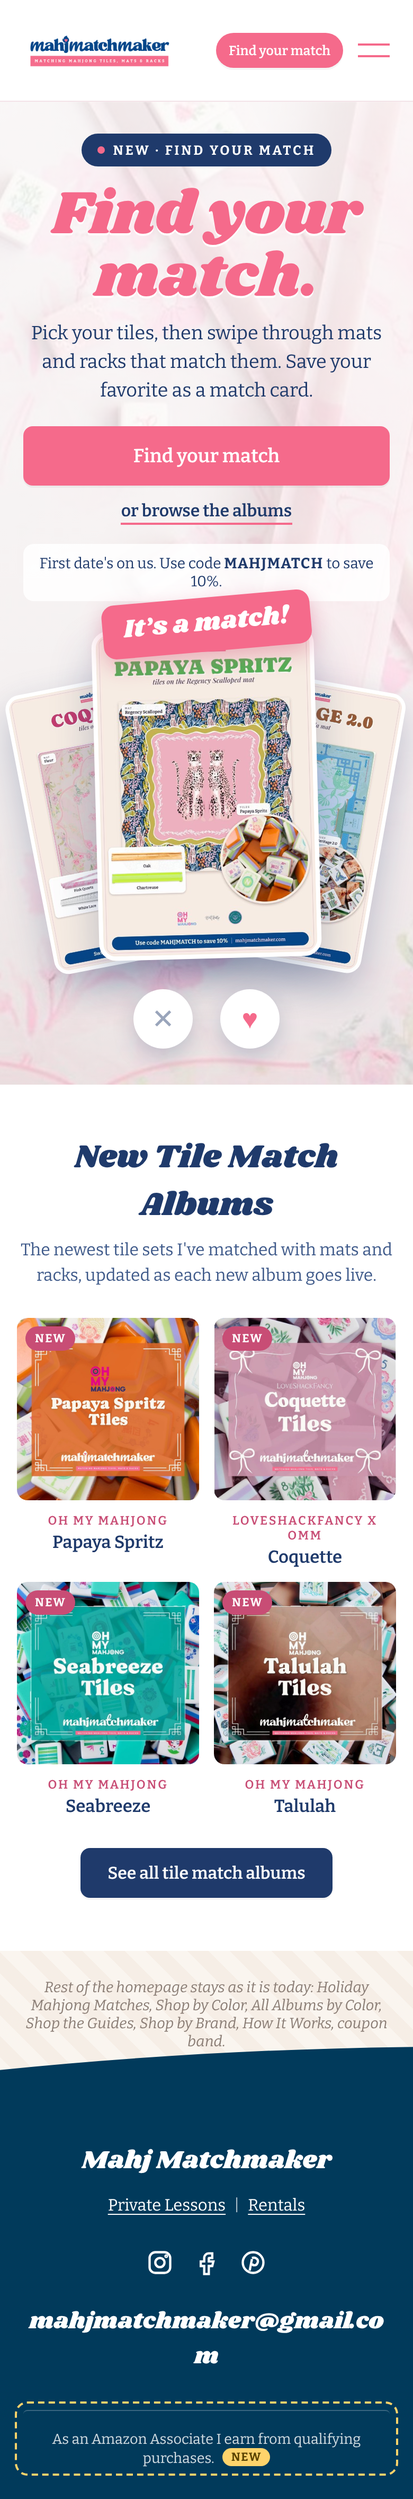
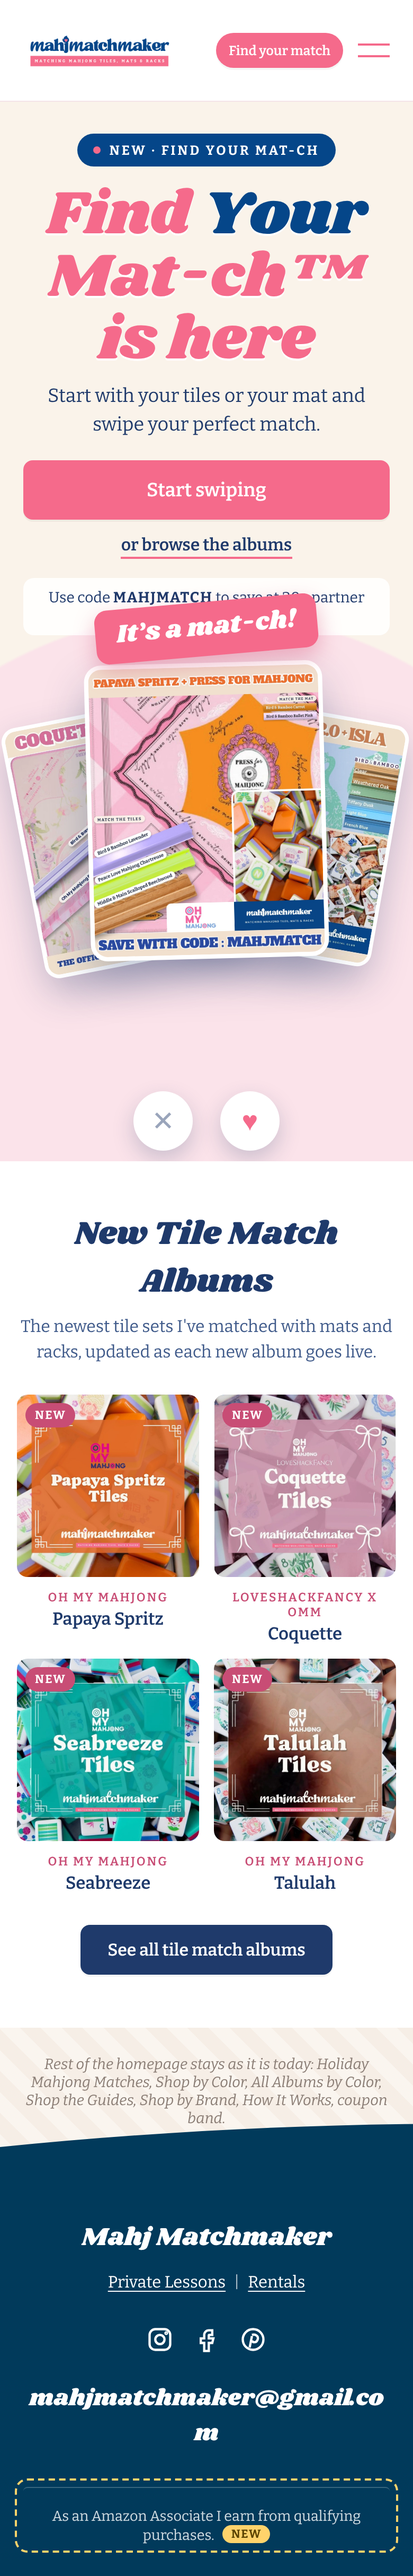
WIP: launch hero mock updates (nav-plan) from running agent
Claude-Session: https://claude.ai/code/session_014aKoC1ZMdZPjGkZ9kHhnLk

diff --git a/site/livepatch/nav-plan/mock/home-launch.html b/site/livepatch/nav-plan/mock/home-launch.html
@@ -29,6 +29,13 @@ a{color:inherit;text-decoration:none}
 .hd .burger{display:none}
 /* hero */
 .hero{position:relative;overflow:hidden;background:url(../../../../assets/hero/loveshackfancy-coquette-fleur-mat-hero.jpg) center/cover}
+.hero.launch{background:radial-gradient(circle at 74% 56%,#fbe3ea 0 36%,transparent 36.2%),radial-gradient(circle at -4% 104%,#fbe3ea 0 20%,transparent 20.2%),#faf3ea}
+.hero.launch::before{display:none}
+.hero.launch h1 em{font-style:normal;color:#054689}
+.hero.launch .eyebrow{background:#054689}
+.hero.launch .fan{height:600px}.hero.launch .fan .c{width:330px}
+.hero.launch .itsamatch{top:-22px}
+.hero.launch .swipes{bottom:-30px}
 .hero::before{content:"";position:absolute;inset:0;background:linear-gradient(90deg,rgba(255,255,255,.80) 0%,rgba(255,255,255,.62) 46%,rgba(255,255,255,.18) 100%)}
 .hero .in{position:relative;display:grid;grid-template-columns:1.05fr .95fr;align-items:center;gap:30px;max-width:1180px;margin:0 auto;padding:64px 56px 70px;min-height:640px}
 .eyebrow{display:inline-flex;align-items:center;gap:8px;background:var(--navy);color:#fff;font-size:12.5px;font-weight:700;letter-spacing:.16em;text-transform:uppercase;border-radius:99px;padding:8px 15px}
@@ -119,6 +126,8 @@ a{color:inherit;text-decoration:none}
 .note{position:absolute;z-index:50;background:#fff8e1;border:1.5px solid #ffd36b;color:#5a4300;font-size:12.5px;line-height:1.35;border-radius:8px;padding:6px 9px;max-width:230px;font-family:'Bitter',serif;box-shadow:0 4px 12px rgba(0,0,0,.08)}
 
 @media (max-width:760px){
+ .hero.launch{background:radial-gradient(circle at 50% 88%,#fbe3ea 0 44%,transparent 44.3%),#faf3ea}
+ .hero.launch .fan{height:440px}.hero.launch .fan .c{width:225px}
  .hd{height:96px;padding:0 22px}
  .hd .logo img{height:40px}
  .nav{display:none}
@@ -157,13 +166,13 @@ a{color:inherit;text-decoration:none}
 </style></head><body><header class="hd"><a class="logo" href="/"><img src="img/logo.png" alt="Mahj Matchmaker"></a>
 <nav class="nav"><div class="it">Mahjong Matches <span class="car">&#9662;</span></div><div class="it">Discount Codes</div><div class="it">Blog</div><div class="it">Shop</div><div class="it">Community <span class="car">&#9662;</span></div>
 <a class="btn cta" href="/find-your-match"><span class="h">&#9829;</span> Find your match</a></nav>
-<div class="rt"><a class="btn mpill" href="/find-your-match">Find your match</a><div class="burger mob"><i></i><i></i></div></div></header><section class="hero"><div class="in"><div>
-<span class="eyebrow"><span class="dot"></span>New &middot; Find Your Match</span>
-<h1>Find your match.</h1>
-<p class="lede">Pick your tiles, then swipe through mats and racks that match them. Save your favorite as a match card.</p>
-<div class="ctas"><a class="btn" href="/find-your-match">Find your match</a><a class="tl" href="/mahjong-tile-matches">or browse the albums</a></div>
-<div class="coupon">First date's on us. Use code <b>MAHJMATCH</b> to save 10%.</div>
-</div><div class="fan"><div class="c c1"><img src="img/card-coquette.jpg" alt=""></div><div class="c c2"><img src="img/card-heritage2.jpg" alt=""></div><div class="c c3"><img src="img/card-papaya.jpg" alt="Papaya Spritz tiles on the Regency Scalloped mat"></div><div class="itsamatch">It&rsquo;s a match!</div><div class="swipes"><span class="no">&#10005;</span><span class="yes">&#9829;</span></div></div></div></section><section class="albums"><h2>New Tile Match Albums</h2><p class="sub">The newest tile sets I've matched with mats and racks, updated as each new album goes live.</p><div class="strip"><a class="a" href="/papaya-spritz-mahjong-tile-matches"><span class="new">NEW</span><img src="../../../../assets/covers/albums/w800/00-papaya-spritz-mahjong-tiles-cover.jpg" alt=""><div class="br">Oh My Mahjong</div><div class="nm">Papaya Spritz</div></a><a class="a" href="/coquette-mahjong-tile-matches"><span class="new">NEW</span><img src="../../../../assets/covers/albums/w800/00-coquette-mahjong-tiles-cover.jpg" alt=""><div class="br">LoveShackFancy x OMM</div><div class="nm">Coquette</div></a><a class="a" href="/seabreeze-mahjong-tile-matches"><span class="new">NEW</span><img src="../../../../assets/covers/albums/w800/00-seabreeze-mahjong-tiles-cover.jpg" alt=""><div class="br">Oh My Mahjong</div><div class="nm">Seabreeze</div></a><a class="a" href="/talulah-mahjong-tile-matches"><span class="new">NEW</span><img src="../../../../assets/covers/albums/w800/00-talulah-mahjong-tiles-cover.jpg" alt=""><div class="br">Oh My Mahjong</div><div class="nm">Talulah</div></a><a class="a" href="/osler-mahjong-tile-matches"><span class="new">NEW</span><img src="../../../../assets/covers/albums/w800/00-osler-mahjong-tiles-cover.jpg" alt=""><div class="br">Oh My Mahjong</div><div class="nm">Osler</div></a><a class="a" href="/smith-mahjong-tile-matches"><span class="new">NEW</span><img src="../../../../assets/covers/albums/w800/00-smith-mahjong-tiles-cover.jpg" alt=""><div class="br">Oh My Mahjong</div><div class="nm">Smith</div></a></div><div class="more"><a class="btn navy" href="/mahjong-tile-matches">See all tile match albums</a></div></section><div class="rest">Rest of the homepage stays as it is today: Holiday Mahjong Matches, Shop by Color, All Albums by Color, Shop the Guides, Shop by Brand, How It Works, coupon band.</div><footer class="ft"><div class="row">
+<div class="rt"><a class="btn mpill" href="/find-your-match">Find your match</a><div class="burger mob"><i></i><i></i></div></div></header><section class="hero launch"><div class="in"><div>
+<span class="eyebrow"><span class="dot"></span>New &middot; Find Your Mat-ch</span>
+<h1>Find <em>Your</em> Mat-ch&trade; is here</h1>
+<p class="lede">Start with your tiles or your mat and swipe your perfect match.</p>
+<div class="ctas"><a class="btn" href="/find-your-match">Start swiping</a><a class="tl" href="/mahjong-tile-matches">or browse the albums</a></div>
+<div class="coupon">Use code <b>MAHJMATCH</b> to save at 30+ partner brands</div>
+</div><div class="fan"><div class="c c1"><img src="img/card-coquette.jpg" alt=""></div><div class="c c2"><img src="img/card-heritage2.jpg" alt=""></div><div class="c c3"><img src="img/card-papaya.jpg" alt="Papaya Spritz tiles on the Press for Mahjong mat"></div><div class="itsamatch">It&rsquo;s a mat-ch!</div><div class="swipes"><span class="no">&#10005;</span><span class="yes">&#9829;</span></div></div></div></section><section class="albums"><h2>New Tile Match Albums</h2><p class="sub">The newest tile sets I've matched with mats and racks, updated as each new album goes live.</p><div class="strip"><a class="a" href="/papaya-spritz-mahjong-tile-matches"><span class="new">NEW</span><img src="../../../../assets/covers/albums/w800/00-papaya-spritz-mahjong-tiles-cover.jpg" alt=""><div class="br">Oh My Mahjong</div><div class="nm">Papaya Spritz</div></a><a class="a" href="/coquette-mahjong-tile-matches"><span class="new">NEW</span><img src="../../../../assets/covers/albums/w800/00-coquette-mahjong-tiles-cover.jpg" alt=""><div class="br">LoveShackFancy x OMM</div><div class="nm">Coquette</div></a><a class="a" href="/seabreeze-mahjong-tile-matches"><span class="new">NEW</span><img src="../../../../assets/covers/albums/w800/00-seabreeze-mahjong-tiles-cover.jpg" alt=""><div class="br">Oh My Mahjong</div><div class="nm">Seabreeze</div></a><a class="a" href="/talulah-mahjong-tile-matches"><span class="new">NEW</span><img src="../../../../assets/covers/albums/w800/00-talulah-mahjong-tiles-cover.jpg" alt=""><div class="br">Oh My Mahjong</div><div class="nm">Talulah</div></a><a class="a" href="/osler-mahjong-tile-matches"><span class="new">NEW</span><img src="../../../../assets/covers/albums/w800/00-osler-mahjong-tiles-cover.jpg" alt=""><div class="br">Oh My Mahjong</div><div class="nm">Osler</div></a><a class="a" href="/smith-mahjong-tile-matches"><span class="new">NEW</span><img src="../../../../assets/covers/albums/w800/00-smith-mahjong-tiles-cover.jpg" alt=""><div class="br">Oh My Mahjong</div><div class="nm">Smith</div></a></div><div class="more"><a class="btn navy" href="/mahjong-tile-matches">See all tile match albums</a></div></section><div class="rest">Rest of the homepage stays as it is today: Holiday Mahjong Matches, Shop by Color, All Albums by Color, Shop the Guides, Shop by Brand, How It Works, coupon band.</div><footer class="ft"><div class="row">
 <div><div class="nm">Mahj Matchmaker</div><div class="links"><a href="/private-mahjong-lessons">Private Lessons</a><span class="pipe">|</span><a href="/rentals">Rentals</a></div></div>
 <div><div class="soc"><svg viewBox="0 0 24 24"><rect x="3" y="3" width="18" height="18" rx="5"/><circle cx="12" cy="12" r="4"/><circle cx="17.5" cy="6.5" r=".6"/></svg><svg viewBox="0 0 24 24"><path d="M14 8h3V4h-3a4 4 0 0 0-4 4v3H7v4h3v7h4v-7h3l1-4h-4V8.5c0-.3.2-.5.5-.5z"/></svg><svg viewBox="0 0 24 24"><circle cx="12" cy="12" r="9"/><path d="M11 8c3-1 6 1 5 4s-4 3-5 1M11 9l-2 10"/></svg></div></div>
 <div><div class="em">mahjmatchmaker@gmail.com</div></div></div>

diff --git a/site/livepatch/nav-plan/mock/home-prelaunch.html b/site/livepatch/nav-plan/mock/home-prelaunch.html
@@ -29,6 +29,13 @@ a{color:inherit;text-decoration:none}
 .hd .burger{display:none}
 /* hero */
 .hero{position:relative;overflow:hidden;background:url(../../../../assets/hero/loveshackfancy-coquette-fleur-mat-hero.jpg) center/cover}
+.hero.launch{background:radial-gradient(circle at 74% 56%,#fbe3ea 0 36%,transparent 36.2%),radial-gradient(circle at -4% 104%,#fbe3ea 0 20%,transparent 20.2%),#faf3ea}
+.hero.launch::before{display:none}
+.hero.launch h1 em{font-style:normal;color:#054689}
+.hero.launch .eyebrow{background:#054689}
+.hero.launch .fan{height:600px}.hero.launch .fan .c{width:330px}
+.hero.launch .itsamatch{top:-22px}
+.hero.launch .swipes{bottom:-30px}
 .hero::before{content:"";position:absolute;inset:0;background:linear-gradient(90deg,rgba(255,255,255,.80) 0%,rgba(255,255,255,.62) 46%,rgba(255,255,255,.18) 100%)}
 .hero .in{position:relative;display:grid;grid-template-columns:1.05fr .95fr;align-items:center;gap:30px;max-width:1180px;margin:0 auto;padding:64px 56px 70px;min-height:640px}
 .eyebrow{display:inline-flex;align-items:center;gap:8px;background:var(--navy);color:#fff;font-size:12.5px;font-weight:700;letter-spacing:.16em;text-transform:uppercase;border-radius:99px;padding:8px 15px}
@@ -119,6 +126,8 @@ a{color:inherit;text-decoration:none}
 .note{position:absolute;z-index:50;background:#fff8e1;border:1.5px solid #ffd36b;color:#5a4300;font-size:12.5px;line-height:1.35;border-radius:8px;padding:6px 9px;max-width:230px;font-family:'Bitter',serif;box-shadow:0 4px 12px rgba(0,0,0,.08)}
 
 @media (max-width:760px){
+ .hero.launch{background:radial-gradient(circle at 50% 88%,#fbe3ea 0 44%,transparent 44.3%),#faf3ea}
+ .hero.launch .fan{height:440px}.hero.launch .fan .c{width:225px}
  .hd{height:96px;padding:0 22px}
  .hd .logo img{height:40px}
  .nav{display:none}
@@ -163,7 +172,7 @@ a{color:inherit;text-decoration:none}
 <p class="lede">Pick your tiles, then swipe through mats and racks that match them. Opens Tuesday, October 27.</p>
 <form class="signup" onsubmit="return false"><input placeholder="Email address" aria-label="Email address"><button class="btn">Save my spot</button></form>
 <div class="fine">I'll email you the minute it opens. Until then, <a href="/mahjong-tile-matches" style="border-bottom:2px solid var(--pink);font-weight:600">browse the albums</a>.</div>
-</div><div class="fan"><div class="stamp"><small>Opens</small><b>10.27</b></div><div class="c c1"><img src="img/card-coquette.jpg" alt=""></div><div class="c c2"><img src="img/card-heritage2.jpg" alt=""></div><div class="c c3"><img src="img/card-papaya.jpg" alt="Papaya Spritz tiles on the Regency Scalloped mat"></div><div class="swipes"><span class="no">&#10005;</span><span class="yes">&#9829;</span></div></div></div></section><section class="albums"><h2>New Tile Match Albums</h2><p class="sub">The newest tile sets I've matched with mats and racks, updated as each new album goes live.</p><div class="strip"><a class="a" href="/papaya-spritz-mahjong-tile-matches"><span class="new">NEW</span><img src="../../../../assets/covers/albums/w800/00-papaya-spritz-mahjong-tiles-cover.jpg" alt=""><div class="br">Oh My Mahjong</div><div class="nm">Papaya Spritz</div></a><a class="a" href="/coquette-mahjong-tile-matches"><span class="new">NEW</span><img src="../../../../assets/covers/albums/w800/00-coquette-mahjong-tiles-cover.jpg" alt=""><div class="br">LoveShackFancy x OMM</div><div class="nm">Coquette</div></a><a class="a" href="/seabreeze-mahjong-tile-matches"><span class="new">NEW</span><img src="../../../../assets/covers/albums/w800/00-seabreeze-mahjong-tiles-cover.jpg" alt=""><div class="br">Oh My Mahjong</div><div class="nm">Seabreeze</div></a><a class="a" href="/talulah-mahjong-tile-matches"><span class="new">NEW</span><img src="../../../../assets/covers/albums/w800/00-talulah-mahjong-tiles-cover.jpg" alt=""><div class="br">Oh My Mahjong</div><div class="nm">Talulah</div></a><a class="a" href="/osler-mahjong-tile-matches"><span class="new">NEW</span><img src="../../../../assets/covers/albums/w800/00-osler-mahjong-tiles-cover.jpg" alt=""><div class="br">Oh My Mahjong</div><div class="nm">Osler</div></a><a class="a" href="/smith-mahjong-tile-matches"><span class="new">NEW</span><img src="../../../../assets/covers/albums/w800/00-smith-mahjong-tiles-cover.jpg" alt=""><div class="br">Oh My Mahjong</div><div class="nm">Smith</div></a></div><div class="more"><a class="btn navy" href="/mahjong-tile-matches">See all tile match albums</a></div></section><div class="rest">Rest of the homepage stays as it is today: Holiday Mahjong Matches, Shop by Color, All Albums by Color, Shop the Guides, Shop by Brand, How It Works, coupon band.</div><footer class="ft"><div class="row">
+</div><div class="fan"><div class="stamp"><small>Opens</small><b>10.27</b></div><div class="c c1"><img src="img/card-coquette.jpg" alt=""></div><div class="c c2"><img src="img/card-heritage2.jpg" alt=""></div><div class="c c3"><img src="img/card-papaya.jpg" alt="Papaya Spritz tiles on the Press for Mahjong mat"></div><div class="swipes"><span class="no">&#10005;</span><span class="yes">&#9829;</span></div></div></div></section><section class="albums"><h2>New Tile Match Albums</h2><p class="sub">The newest tile sets I've matched with mats and racks, updated as each new album goes live.</p><div class="strip"><a class="a" href="/papaya-spritz-mahjong-tile-matches"><span class="new">NEW</span><img src="../../../../assets/covers/albums/w800/00-papaya-spritz-mahjong-tiles-cover.jpg" alt=""><div class="br">Oh My Mahjong</div><div class="nm">Papaya Spritz</div></a><a class="a" href="/coquette-mahjong-tile-matches"><span class="new">NEW</span><img src="../../../../assets/covers/albums/w800/00-coquette-mahjong-tiles-cover.jpg" alt=""><div class="br">LoveShackFancy x OMM</div><div class="nm">Coquette</div></a><a class="a" href="/seabreeze-mahjong-tile-matches"><span class="new">NEW</span><img src="../../../../assets/covers/albums/w800/00-seabreeze-mahjong-tiles-cover.jpg" alt=""><div class="br">Oh My Mahjong</div><div class="nm">Seabreeze</div></a><a class="a" href="/talulah-mahjong-tile-matches"><span class="new">NEW</span><img src="../../../../assets/covers/albums/w800/00-talulah-mahjong-tiles-cover.jpg" alt=""><div class="br">Oh My Mahjong</div><div class="nm">Talulah</div></a><a class="a" href="/osler-mahjong-tile-matches"><span class="new">NEW</span><img src="../../../../assets/covers/albums/w800/00-osler-mahjong-tiles-cover.jpg" alt=""><div class="br">Oh My Mahjong</div><div class="nm">Osler</div></a><a class="a" href="/smith-mahjong-tile-matches"><span class="new">NEW</span><img src="../../../../assets/covers/albums/w800/00-smith-mahjong-tiles-cover.jpg" alt=""><div class="br">Oh My Mahjong</div><div class="nm">Smith</div></a></div><div class="more"><a class="btn navy" href="/mahjong-tile-matches">See all tile match albums</a></div></section><div class="rest">Rest of the homepage stays as it is today: Holiday Mahjong Matches, Shop by Color, All Albums by Color, Shop the Guides, Shop by Brand, How It Works, coupon band.</div><footer class="ft"><div class="row">
 <div><div class="nm">Mahj Matchmaker</div><div class="links"><a href="/private-mahjong-lessons">Private Lessons</a><span class="pipe">|</span><a href="/rentals">Rentals</a></div></div>
 <div><div class="soc"><svg viewBox="0 0 24 24"><rect x="3" y="3" width="18" height="18" rx="5"/><circle cx="12" cy="12" r="4"/><circle cx="17.5" cy="6.5" r=".6"/></svg><svg viewBox="0 0 24 24"><path d="M14 8h3V4h-3a4 4 0 0 0-4 4v3H7v4h3v7h4v-7h3l1-4h-4V8.5c0-.3.2-.5.5-.5z"/></svg><svg viewBox="0 0 24 24"><circle cx="12" cy="12" r="9"/><path d="M11 8c3-1 6 1 5 4s-4 3-5 1M11 9l-2 10"/></svg></div></div>
 <div><div class="em">mahjmatchmaker@gmail.com</div></div></div>

diff --git a/site/livepatch/nav-plan/mock/footer.html b/site/livepatch/nav-plan/mock/footer.html
@@ -29,6 +29,13 @@ a{color:inherit;text-decoration:none}
 .hd .burger{display:none}
 /* hero */
 .hero{position:relative;overflow:hidden;background:url(../../../../assets/hero/loveshackfancy-coquette-fleur-mat-hero.jpg) center/cover}
+.hero.launch{background:radial-gradient(circle at 74% 56%,#fbe3ea 0 36%,transparent 36.2%),radial-gradient(circle at -4% 104%,#fbe3ea 0 20%,transparent 20.2%),#faf3ea}
+.hero.launch::before{display:none}
+.hero.launch h1 em{font-style:normal;color:#054689}
+.hero.launch .eyebrow{background:#054689}
+.hero.launch .fan{height:600px}.hero.launch .fan .c{width:330px}
+.hero.launch .itsamatch{top:-22px}
+.hero.launch .swipes{bottom:-30px}
 .hero::before{content:"";position:absolute;inset:0;background:linear-gradient(90deg,rgba(255,255,255,.80) 0%,rgba(255,255,255,.62) 46%,rgba(255,255,255,.18) 100%)}
 .hero .in{position:relative;display:grid;grid-template-columns:1.05fr .95fr;align-items:center;gap:30px;max-width:1180px;margin:0 auto;padding:64px 56px 70px;min-height:640px}
 .eyebrow{display:inline-flex;align-items:center;gap:8px;background:var(--navy);color:#fff;font-size:12.5px;font-weight:700;letter-spacing:.16em;text-transform:uppercase;border-radius:99px;padding:8px 15px}
@@ -119,6 +126,8 @@ a{color:inherit;text-decoration:none}
 .note{position:absolute;z-index:50;background:#fff8e1;border:1.5px solid #ffd36b;color:#5a4300;font-size:12.5px;line-height:1.35;border-radius:8px;padding:6px 9px;max-width:230px;font-family:'Bitter',serif;box-shadow:0 4px 12px rgba(0,0,0,.08)}
 
 @media (max-width:760px){
+ .hero.launch{background:radial-gradient(circle at 50% 88%,#fbe3ea 0 44%,transparent 44.3%),#faf3ea}
+ .hero.launch .fan{height:440px}.hero.launch .fan .c{width:225px}
  .hd{height:96px;padding:0 22px}
  .hd .logo img{height:40px}
  .nav{display:none}

diff --git a/site/livepatch/nav-plan/mock/header-community.html b/site/livepatch/nav-plan/mock/header-community.html
@@ -29,6 +29,13 @@ a{color:inherit;text-decoration:none}
 .hd .burger{display:none}
 /* hero */
 .hero{position:relative;overflow:hidden;background:url(../../../../assets/hero/loveshackfancy-coquette-fleur-mat-hero.jpg) center/cover}
+.hero.launch{background:radial-gradient(circle at 74% 56%,#fbe3ea 0 36%,transparent 36.2%),radial-gradient(circle at -4% 104%,#fbe3ea 0 20%,transparent 20.2%),#faf3ea}
+.hero.launch::before{display:none}
+.hero.launch h1 em{font-style:normal;color:#054689}
+.hero.launch .eyebrow{background:#054689}
+.hero.launch .fan{height:600px}.hero.launch .fan .c{width:330px}
+.hero.launch .itsamatch{top:-22px}
+.hero.launch .swipes{bottom:-30px}
 .hero::before{content:"";position:absolute;inset:0;background:linear-gradient(90deg,rgba(255,255,255,.80) 0%,rgba(255,255,255,.62) 46%,rgba(255,255,255,.18) 100%)}
 .hero .in{position:relative;display:grid;grid-template-columns:1.05fr .95fr;align-items:center;gap:30px;max-width:1180px;margin:0 auto;padding:64px 56px 70px;min-height:640px}
 .eyebrow{display:inline-flex;align-items:center;gap:8px;background:var(--navy);color:#fff;font-size:12.5px;font-weight:700;letter-spacing:.16em;text-transform:uppercase;border-radius:99px;padding:8px 15px}
@@ -119,6 +126,8 @@ a{color:inherit;text-decoration:none}
 .note{position:absolute;z-index:50;background:#fff8e1;border:1.5px solid #ffd36b;color:#5a4300;font-size:12.5px;line-height:1.35;border-radius:8px;padding:6px 9px;max-width:230px;font-family:'Bitter',serif;box-shadow:0 4px 12px rgba(0,0,0,.08)}
 
 @media (max-width:760px){
+ .hero.launch{background:radial-gradient(circle at 50% 88%,#fbe3ea 0 44%,transparent 44.3%),#faf3ea}
+ .hero.launch .fan{height:440px}.hero.launch .fan .c{width:225px}
  .hd{height:96px;padding:0 22px}
  .hd .logo img{height:40px}
  .nav{display:none}

diff --git a/site/livepatch/nav-plan/mock/header-matches.html b/site/livepatch/nav-plan/mock/header-matches.html
@@ -29,6 +29,13 @@ a{color:inherit;text-decoration:none}
 .hd .burger{display:none}
 /* hero */
 .hero{position:relative;overflow:hidden;background:url(../../../../assets/hero/loveshackfancy-coquette-fleur-mat-hero.jpg) center/cover}
+.hero.launch{background:radial-gradient(circle at 74% 56%,#fbe3ea 0 36%,transparent 36.2%),radial-gradient(circle at -4% 104%,#fbe3ea 0 20%,transparent 20.2%),#faf3ea}
+.hero.launch::before{display:none}
+.hero.launch h1 em{font-style:normal;color:#054689}
+.hero.launch .eyebrow{background:#054689}
+.hero.launch .fan{height:600px}.hero.launch .fan .c{width:330px}
+.hero.launch .itsamatch{top:-22px}
+.hero.launch .swipes{bottom:-30px}
 .hero::before{content:"";position:absolute;inset:0;background:linear-gradient(90deg,rgba(255,255,255,.80) 0%,rgba(255,255,255,.62) 46%,rgba(255,255,255,.18) 100%)}
 .hero .in{position:relative;display:grid;grid-template-columns:1.05fr .95fr;align-items:center;gap:30px;max-width:1180px;margin:0 auto;padding:64px 56px 70px;min-height:640px}
 .eyebrow{display:inline-flex;align-items:center;gap:8px;background:var(--navy);color:#fff;font-size:12.5px;font-weight:700;letter-spacing:.16em;text-transform:uppercase;border-radius:99px;padding:8px 15px}
@@ -119,6 +126,8 @@ a{color:inherit;text-decoration:none}
 .note{position:absolute;z-index:50;background:#fff8e1;border:1.5px solid #ffd36b;color:#5a4300;font-size:12.5px;line-height:1.35;border-radius:8px;padding:6px 9px;max-width:230px;font-family:'Bitter',serif;box-shadow:0 4px 12px rgba(0,0,0,.08)}
 
 @media (max-width:760px){
+ .hero.launch{background:radial-gradient(circle at 50% 88%,#fbe3ea 0 44%,transparent 44.3%),#faf3ea}
+ .hero.launch .fan{height:440px}.hero.launch .fan .c{width:225px}
  .hd{height:96px;padding:0 22px}
  .hd .logo img{height:40px}
  .nav{display:none}

diff --git a/site/livepatch/nav-plan/mock/menu-community.html b/site/livepatch/nav-plan/mock/menu-community.html
@@ -29,6 +29,13 @@ a{color:inherit;text-decoration:none}
 .hd .burger{display:none}
 /* hero */
 .hero{position:relative;overflow:hidden;background:url(../../../../assets/hero/loveshackfancy-coquette-fleur-mat-hero.jpg) center/cover}
+.hero.launch{background:radial-gradient(circle at 74% 56%,#fbe3ea 0 36%,transparent 36.2%),radial-gradient(circle at -4% 104%,#fbe3ea 0 20%,transparent 20.2%),#faf3ea}
+.hero.launch::before{display:none}
+.hero.launch h1 em{font-style:normal;color:#054689}
+.hero.launch .eyebrow{background:#054689}
+.hero.launch .fan{height:600px}.hero.launch .fan .c{width:330px}
+.hero.launch .itsamatch{top:-22px}
+.hero.launch .swipes{bottom:-30px}
 .hero::before{content:"";position:absolute;inset:0;background:linear-gradient(90deg,rgba(255,255,255,.80) 0%,rgba(255,255,255,.62) 46%,rgba(255,255,255,.18) 100%)}
 .hero .in{position:relative;display:grid;grid-template-columns:1.05fr .95fr;align-items:center;gap:30px;max-width:1180px;margin:0 auto;padding:64px 56px 70px;min-height:640px}
 .eyebrow{display:inline-flex;align-items:center;gap:8px;background:var(--navy);color:#fff;font-size:12.5px;font-weight:700;letter-spacing:.16em;text-transform:uppercase;border-radius:99px;padding:8px 15px}
@@ -119,6 +126,8 @@ a{color:inherit;text-decoration:none}
 .note{position:absolute;z-index:50;background:#fff8e1;border:1.5px solid #ffd36b;color:#5a4300;font-size:12.5px;line-height:1.35;border-radius:8px;padding:6px 9px;max-width:230px;font-family:'Bitter',serif;box-shadow:0 4px 12px rgba(0,0,0,.08)}
 
 @media (max-width:760px){
+ .hero.launch{background:radial-gradient(circle at 50% 88%,#fbe3ea 0 44%,transparent 44.3%),#faf3ea}
+ .hero.launch .fan{height:440px}.hero.launch .fan .c{width:225px}
  .hd{height:96px;padding:0 22px}
  .hd .logo img{height:40px}
  .nav{display:none}

diff --git a/site/livepatch/nav-plan/mock/menu-matches.html b/site/livepatch/nav-plan/mock/menu-matches.html
@@ -29,6 +29,13 @@ a{color:inherit;text-decoration:none}
 .hd .burger{display:none}
 /* hero */
 .hero{position:relative;overflow:hidden;background:url(../../../../assets/hero/loveshackfancy-coquette-fleur-mat-hero.jpg) center/cover}
+.hero.launch{background:radial-gradient(circle at 74% 56%,#fbe3ea 0 36%,transparent 36.2%),radial-gradient(circle at -4% 104%,#fbe3ea 0 20%,transparent 20.2%),#faf3ea}
+.hero.launch::before{display:none}
+.hero.launch h1 em{font-style:normal;color:#054689}
+.hero.launch .eyebrow{background:#054689}
+.hero.launch .fan{height:600px}.hero.launch .fan .c{width:330px}
+.hero.launch .itsamatch{top:-22px}
+.hero.launch .swipes{bottom:-30px}
 .hero::before{content:"";position:absolute;inset:0;background:linear-gradient(90deg,rgba(255,255,255,.80) 0%,rgba(255,255,255,.62) 46%,rgba(255,255,255,.18) 100%)}
 .hero .in{position:relative;display:grid;grid-template-columns:1.05fr .95fr;align-items:center;gap:30px;max-width:1180px;margin:0 auto;padding:64px 56px 70px;min-height:640px}
 .eyebrow{display:inline-flex;align-items:center;gap:8px;background:var(--navy);color:#fff;font-size:12.5px;font-weight:700;letter-spacing:.16em;text-transform:uppercase;border-radius:99px;padding:8px 15px}
@@ -119,6 +126,8 @@ a{color:inherit;text-decoration:none}
 .note{position:absolute;z-index:50;background:#fff8e1;border:1.5px solid #ffd36b;color:#5a4300;font-size:12.5px;line-height:1.35;border-radius:8px;padding:6px 9px;max-width:230px;font-family:'Bitter',serif;box-shadow:0 4px 12px rgba(0,0,0,.08)}
 
 @media (max-width:760px){
+ .hero.launch{background:radial-gradient(circle at 50% 88%,#fbe3ea 0 44%,transparent 44.3%),#faf3ea}
+ .hero.launch .fan{height:440px}.hero.launch .fan .c{width:225px}
  .hd{height:96px;padding:0 22px}
  .hd .logo img{height:40px}
  .nav{display:none}

diff --git a/site/livepatch/nav-plan/mock/menu-top.html b/site/livepatch/nav-plan/mock/menu-top.html
@@ -29,6 +29,13 @@ a{color:inherit;text-decoration:none}
 .hd .burger{display:none}
 /* hero */
 .hero{position:relative;overflow:hidden;background:url(../../../../assets/hero/loveshackfancy-coquette-fleur-mat-hero.jpg) center/cover}
+.hero.launch{background:radial-gradient(circle at 74% 56%,#fbe3ea 0 36%,transparent 36.2%),radial-gradient(circle at -4% 104%,#fbe3ea 0 20%,transparent 20.2%),#faf3ea}
+.hero.launch::before{display:none}
+.hero.launch h1 em{font-style:normal;color:#054689}
+.hero.launch .eyebrow{background:#054689}
+.hero.launch .fan{height:600px}.hero.launch .fan .c{width:330px}
+.hero.launch .itsamatch{top:-22px}
+.hero.launch .swipes{bottom:-30px}
 .hero::before{content:"";position:absolute;inset:0;background:linear-gradient(90deg,rgba(255,255,255,.80) 0%,rgba(255,255,255,.62) 46%,rgba(255,255,255,.18) 100%)}
 .hero .in{position:relative;display:grid;grid-template-columns:1.05fr .95fr;align-items:center;gap:30px;max-width:1180px;margin:0 auto;padding:64px 56px 70px;min-height:640px}
 .eyebrow{display:inline-flex;align-items:center;gap:8px;background:var(--navy);color:#fff;font-size:12.5px;font-weight:700;letter-spacing:.16em;text-transform:uppercase;border-radius:99px;padding:8px 15px}
@@ -119,6 +126,8 @@ a{color:inherit;text-decoration:none}
 .note{position:absolute;z-index:50;background:#fff8e1;border:1.5px solid #ffd36b;color:#5a4300;font-size:12.5px;line-height:1.35;border-radius:8px;padding:6px 9px;max-width:230px;font-family:'Bitter',serif;box-shadow:0 4px 12px rgba(0,0,0,.08)}
 
 @media (max-width:760px){
+ .hero.launch{background:radial-gradient(circle at 50% 88%,#fbe3ea 0 44%,transparent 44.3%),#faf3ea}
+ .hero.launch .fan{height:440px}.hero.launch .fan .c{width:225px}
  .hd{height:96px;padding:0 22px}
  .hd .logo img{height:40px}
  .nav{display:none}

diff --git a/site/livepatch/nav-plan/mock/shop.html b/site/livepatch/nav-plan/mock/shop.html
@@ -29,6 +29,13 @@ a{color:inherit;text-decoration:none}
 .hd .burger{display:none}
 /* hero */
 .hero{position:relative;overflow:hidden;background:url(../../../../assets/hero/loveshackfancy-coquette-fleur-mat-hero.jpg) center/cover}
+.hero.launch{background:radial-gradient(circle at 74% 56%,#fbe3ea 0 36%,transparent 36.2%),radial-gradient(circle at -4% 104%,#fbe3ea 0 20%,transparent 20.2%),#faf3ea}
+.hero.launch::before{display:none}
+.hero.launch h1 em{font-style:normal;color:#054689}
+.hero.launch .eyebrow{background:#054689}
+.hero.launch .fan{height:600px}.hero.launch .fan .c{width:330px}
+.hero.launch .itsamatch{top:-22px}
+.hero.launch .swipes{bottom:-30px}
 .hero::before{content:"";position:absolute;inset:0;background:linear-gradient(90deg,rgba(255,255,255,.80) 0%,rgba(255,255,255,.62) 46%,rgba(255,255,255,.18) 100%)}
 .hero .in{position:relative;display:grid;grid-template-columns:1.05fr .95fr;align-items:center;gap:30px;max-width:1180px;margin:0 auto;padding:64px 56px 70px;min-height:640px}
 .eyebrow{display:inline-flex;align-items:center;gap:8px;background:var(--navy);color:#fff;font-size:12.5px;font-weight:700;letter-spacing:.16em;text-transform:uppercase;border-radius:99px;padding:8px 15px}
@@ -119,6 +126,8 @@ a{color:inherit;text-decoration:none}
 .note{position:absolute;z-index:50;background:#fff8e1;border:1.5px solid #ffd36b;color:#5a4300;font-size:12.5px;line-height:1.35;border-radius:8px;padding:6px 9px;max-width:230px;font-family:'Bitter',serif;box-shadow:0 4px 12px rgba(0,0,0,.08)}
 
 @media (max-width:760px){
+ .hero.launch{background:radial-gradient(circle at 50% 88%,#fbe3ea 0 44%,transparent 44.3%),#faf3ea}
+ .hero.launch .fan{height:440px}.hero.launch .fan .c{width:225px}
  .hd{height:96px;padding:0 22px}
  .hd .logo img{height:40px}
  .nav{display:none}

diff --git a/site/livepatch/nav-plan/mock/gen.py b/site/livepatch/nav-plan/mock/gen.py
@@ -135,6 +135,8 @@ a{color:inherit;text-decoration:none}
 .note{position:absolute;z-index:50;background:#fff8e1;border:1.5px solid #ffd36b;color:#5a4300;font-size:12.5px;line-height:1.35;border-radius:8px;padding:6px 9px;max-width:230px;font-family:'Bitter',serif;box-shadow:0 4px 12px rgba(0,0,0,.08)}
 
 @media (max-width:760px){
+ .hero.launch{background:radial-gradient(circle at 50% 88%,#fbe3ea 0 44%,transparent 44.3%),#faf3ea}
+ .hero.launch .fan{height:440px}.hero.launch .fan .c{width:225px}
  .hd{height:96px;padding:0 22px}
  .hd .logo img{height:40px}
  .nav{display:none}
